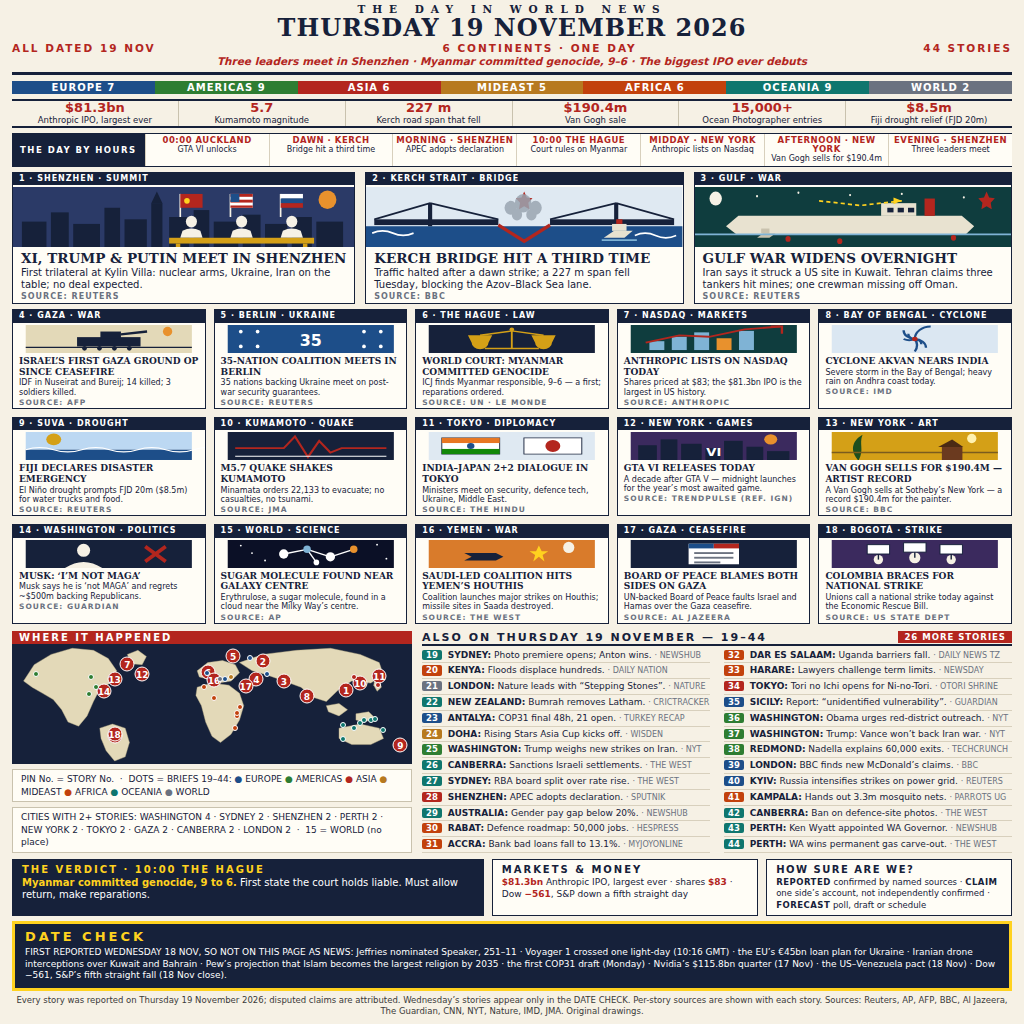
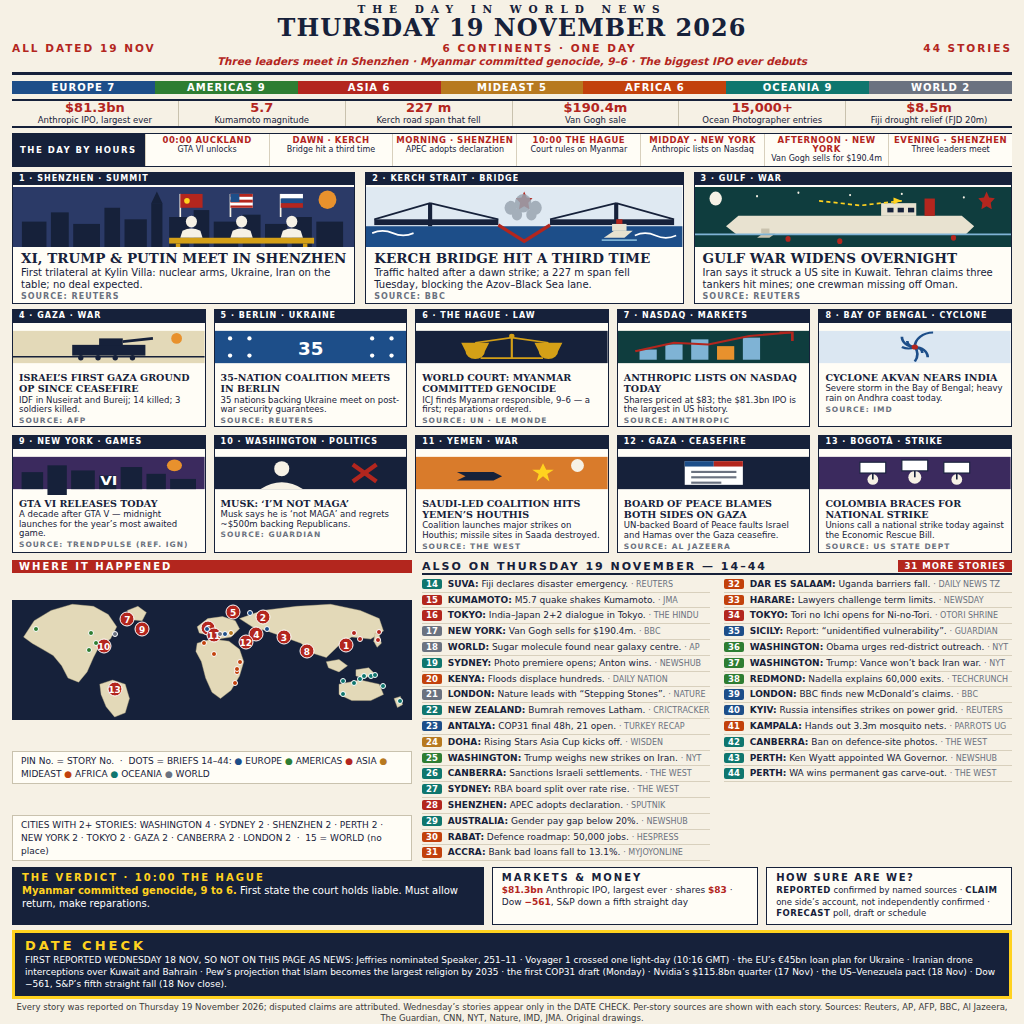
K2 v2 rev-2: feat grid 3x5 -> 2x5 (10 feats, 31 briefs); illustrations back to 48px, not squished

diff --git a/render.html b/render.html
@@ -23,9 +23,9 @@ h1.date { font-size:24px; line-height:1.05; letter-spacing:1px; font-weight:900;
 .strip { display:block; background:#16213a; color:#fff; font-size:8px; font-weight:bold; letter-spacing:1px; padding:1px 6px; line-height:1.3; white-space:nowrap; overflow:hidden; }
 .feat-grid { display:grid; grid-template-columns:repeat(5,1fr); gap:8px; margin-top:5px; }
 .feat { background:#fffdf6; border:1.2px solid #16213a; }
-.feat .illus { height:32px; overflow:hidden; display:flex; align-items:center; justify-content:center; }
-.feat h3 { font-size:9px; line-height:1.2; font-weight:900; margin:1px 6px 0; }
-.feat p { font-size:8px; line-height:1.15; margin:1px 6px 0; }
+.feat .illus { height:48px; overflow:hidden; display:flex; align-items:center; justify-content:center; }
+.feat h3 { font-size:9.5px; line-height:1.2; font-weight:900; margin:1px 6px 0; }
+.feat p { font-size:8.5px; line-height:1.15; margin:1px 6px 0; }
 .feat .src { font-size:7.5px; color:#6b7280; letter-spacing:1px; font-weight:bold; margin:1px 6px 1px; }
 .bottom { display:flex; gap:10px; margin-top:7px; }
 .mapcol { flex:0 0 40%; display:flex; flex-direction:column; justify-content:space-between; }
@@ -52,7 +52,7 @@ h1.date { font-size:24px; line-height:1.05; letter-spacing:1px; font-weight:900;
 .datecheck { margin-top:5px; border:3px solid #ffd21f; background:#16213a; color:#fff; padding:5px 10px 6px; }
 .datecheck .dc-head { display:flex; align-items:center; gap:7px; font-size:13px; font-weight:900; letter-spacing:3px; color:#ffd21f; margin-bottom:2px; line-height:1.2; }
 .datecheck .dc-items { font-size:9px; line-height:1.3; }
-.footer { font-size:8.5px; text-align:center; margin-top:4px; line-height:1.25; color:#3a3a3a; }
+.footer { font-size:8.5px; text-align:center; margin-top:3px; line-height:1.25; color:#3a3a3a; }
 .timeline { display:flex; margin-top:5px; border-top:1.5px solid #16213a; border-bottom:1.5px solid #16213a; background:#fffdf6; }
 .timeline .tl-label { flex:0 0 auto; background:#16213a; color:#fff; font-size:8.5px; font-weight:bold; letter-spacing:1.5px; padding:3px 8px; display:flex; align-items:center; }
 .timeline .tl-cell { flex:1; text-align:center; padding:2px 2px; border-left:1px solid #d8d0bd; }
@@ -130,105 +130,70 @@ h1.date { font-size:24px; line-height:1.05; letter-spacing:1px; font-weight:900;
 <div class="feat-grid">
   <div class="feat">
     <div class="strip">4 &middot; GAZA &middot; WAR</div>
-    <div class="illus"><svg width="100%" height="28" viewBox="0 0 178 30"><rect x="0" y="0" width="178" height="30" fill="#e3d9b8"/><circle cx="152" cy="7" r="5" fill="#e8912d"/><path d="M0 24 H178" stroke="#16213a" stroke-width="1.5"/><rect x="55" y="13" width="68" height="10" fill="#16213a"/><rect x="80" y="7" width="22" height="7" fill="#16213a"/><line x1="102" y1="10" x2="130" y2="7" stroke="#16213a" stroke-width="2.5"/><circle cx="63" cy="25" r="2.5" fill="#16213a"/><circle cx="79" cy="25" r="2.5" fill="#16213a"/><circle cx="95" cy="25" r="2.5" fill="#16213a"/><circle cx="111" cy="25" r="2.5" fill="#16213a"/></svg></div>
+    <div class="illus"><svg width="100%" height="44" viewBox="0 0 178 30"><rect x="0" y="0" width="178" height="30" fill="#e3d9b8"/><circle cx="152" cy="7" r="5" fill="#e8912d"/><path d="M0 24 H178" stroke="#16213a" stroke-width="1.5"/><rect x="55" y="13" width="68" height="10" fill="#16213a"/><rect x="80" y="7" width="22" height="7" fill="#16213a"/><line x1="102" y1="10" x2="130" y2="7" stroke="#16213a" stroke-width="2.5"/><circle cx="63" cy="25" r="2.5" fill="#16213a"/><circle cx="79" cy="25" r="2.5" fill="#16213a"/><circle cx="95" cy="25" r="2.5" fill="#16213a"/><circle cx="111" cy="25" r="2.5" fill="#16213a"/></svg></div>
     <h3>ISRAEL&rsquo;S FIRST GAZA GROUND OP SINCE CEASEFIRE</h3>
     <p>IDF in Nuseirat and Bureij; 14 killed; 3 soldiers killed.</p>
     <div class="src">SOURCE: AFP</div>
   </div>
   <div class="feat">
     <div class="strip">5 &middot; BERLIN &middot; UKRAINE</div>
-    <div class="illus"><svg width="100%" height="28" viewBox="0 0 178 30"><rect x="0" y="0" width="178" height="30" fill="#1d4e89"/><g fill="#fff"><circle cx="14" cy="7" r="2"/><circle cx="32" cy="7" r="2"/><circle cx="146" cy="7" r="2"/><circle cx="164" cy="7" r="2"/><circle cx="14" cy="23" r="2"/><circle cx="32" cy="23" r="2"/><circle cx="146" cy="23" r="2"/><circle cx="164" cy="23" r="2"/></g><text x="89" y="22" font-size="17" font-weight="bold" fill="#fff" text-anchor="middle">35</text></svg></div>
+    <div class="illus"><svg width="100%" height="44" viewBox="0 0 178 30"><rect x="0" y="0" width="178" height="30" fill="#1d4e89"/><g fill="#fff"><circle cx="14" cy="7" r="2"/><circle cx="32" cy="7" r="2"/><circle cx="146" cy="7" r="2"/><circle cx="164" cy="7" r="2"/><circle cx="14" cy="23" r="2"/><circle cx="32" cy="23" r="2"/><circle cx="146" cy="23" r="2"/><circle cx="164" cy="23" r="2"/></g><text x="89" y="22" font-size="17" font-weight="bold" fill="#fff" text-anchor="middle">35</text></svg></div>
     <h3>35-NATION COALITION MEETS IN BERLIN</h3>
     <p>35 nations backing Ukraine meet on post-war security guarantees.</p>
     <div class="src">SOURCE: REUTERS</div>
   </div>
   <div class="feat">
     <div class="strip">6 &middot; THE HAGUE &middot; LAW</div>
-    <div class="illus"><svg width="100%" height="28" viewBox="0 0 178 30"><g transform="scale(1,0.789)"><rect x="0" y="0" width="178" height="38" fill="#16213a"/><g stroke="#d4a017" stroke-width="2" fill="none"><path d="M89 4 V32 M60 32 H118 M89 8 L55 14 M89 8 L123 14"/></g><path d="M42 14 h26 l-4 10 a9 9 0 0 1 -18 0 z" fill="#d4a017"/><path d="M110 14 h26 l-4 10 a9 9 0 0 1 -18 0 z" fill="#d4a017"/><circle cx="89" cy="6" r="2.5" fill="#d4a017"/></g></svg></div>
+    <div class="illus"><svg width="100%" height="44" viewBox="0 0 178 30"><g transform="scale(1,0.789)"><rect x="0" y="0" width="178" height="38" fill="#16213a"/><g stroke="#d4a017" stroke-width="2" fill="none"><path d="M89 4 V32 M60 32 H118 M89 8 L55 14 M89 8 L123 14"/></g><path d="M42 14 h26 l-4 10 a9 9 0 0 1 -18 0 z" fill="#d4a017"/><path d="M110 14 h26 l-4 10 a9 9 0 0 1 -18 0 z" fill="#d4a017"/><circle cx="89" cy="6" r="2.5" fill="#d4a017"/></g></svg></div>
     <h3>WORLD COURT: MYANMAR COMMITTED GENOCIDE</h3>
     <p>ICJ finds Myanmar responsible, 9&ndash;6 &mdash; a first; reparations ordered.</p>
     <div class="src">SOURCE: UN &middot; LE MONDE</div>
   </div>
   <div class="feat">
     <div class="strip">7 &middot; NASDAQ &middot; MARKETS</div>
-    <div class="illus"><svg width="100%" height="28" viewBox="0 0 178 30"><g transform="scale(1,0.789)"><rect x="0" y="0" width="178" height="38" fill="#0f3d3e"/><rect x="20" y="22" width="16" height="12" fill="#7fb3d5"/><rect x="44" y="16" width="16" height="18" fill="#7fb3d5"/><rect x="68" y="10" width="16" height="24" fill="#7fb3d5"/><rect x="92" y="18" width="16" height="16" fill="#e8912d"/><rect x="116" y="8" width="16" height="26" fill="#7fb3d5"/><path d="M16 24 L52 14 L84 16 L122 6 L160 2" stroke="#b3261e" stroke-width="2.5" fill="none"/><path d="M150 2 h12 v10" stroke="#b3261e" stroke-width="2.5" fill="none"/></g></svg></div>
+    <div class="illus"><svg width="100%" height="44" viewBox="0 0 178 30"><g transform="scale(1,0.789)"><rect x="0" y="0" width="178" height="38" fill="#0f3d3e"/><rect x="20" y="22" width="16" height="12" fill="#7fb3d5"/><rect x="44" y="16" width="16" height="18" fill="#7fb3d5"/><rect x="68" y="10" width="16" height="24" fill="#7fb3d5"/><rect x="92" y="18" width="16" height="16" fill="#e8912d"/><rect x="116" y="8" width="16" height="26" fill="#7fb3d5"/><path d="M16 24 L52 14 L84 16 L122 6 L160 2" stroke="#b3261e" stroke-width="2.5" fill="none"/><path d="M150 2 h12 v10" stroke="#b3261e" stroke-width="2.5" fill="none"/></g></svg></div>
     <h3>ANTHROPIC LISTS ON NASDAQ TODAY</h3>
     <p>Shares priced at $83; the $81.3bn IPO is the largest in US history.</p>
     <div class="src">SOURCE: ANTHROPIC</div>
   </div>
   <div class="feat">
     <div class="strip">8 &middot; BAY OF BENGAL &middot; CYCLONE</div>
-    <div class="illus"><svg width="100%" height="28" viewBox="0 0 178 30"><g transform="scale(1,0.789)"><rect x="0" y="0" width="178" height="38" fill="#dbe7f2"/><path d="M89 19 a3 3 0 0 1 3 3 M89 19 a7 7 0 0 1 7 7 M89 19 a12 12 0 0 1 12 12 M89 19 a17 17 0 0 1 0 17 M89 19 a12 12 0 0 1 -12 0 M89 19 a7 7 0 0 1 -7 -7 M89 19 a17 17 0 0 1 17 -17 M89 19 a12 12 0 0 1 -12 -12" stroke="#1d4e89" stroke-width="2.5" fill="none"/><circle cx="89" cy="19" r="3" fill="#b3261e"/></g></svg></div>
+    <div class="illus"><svg width="100%" height="44" viewBox="0 0 178 30"><g transform="scale(1,0.789)"><rect x="0" y="0" width="178" height="38" fill="#dbe7f2"/><path d="M89 19 a3 3 0 0 1 3 3 M89 19 a7 7 0 0 1 7 7 M89 19 a12 12 0 0 1 12 12 M89 19 a17 17 0 0 1 0 17 M89 19 a12 12 0 0 1 -12 0 M89 19 a7 7 0 0 1 -7 -7 M89 19 a17 17 0 0 1 17 -17 M89 19 a12 12 0 0 1 -12 -12" stroke="#1d4e89" stroke-width="2.5" fill="none"/><circle cx="89" cy="19" r="3" fill="#b3261e"/></g></svg></div>
     <h3>CYCLONE AKVAN NEARS INDIA</h3>
     <p>Severe storm in the Bay of Bengal; heavy rain on Andhra coast today.</p>
     <div class="src">SOURCE: IMD</div>
   </div>
   <div class="feat">
-    <div class="strip">9 &middot; SUVA &middot; DROUGHT</div>
-    <div class="illus"><svg width="100%" height="28" viewBox="0 0 178 30"><g transform="scale(1,0.789)"><rect x="0" y="0" width="178" height="24" fill="#bcd8f2"/><rect x="0" y="24" width="178" height="14" fill="#1d4e89"/><circle cx="30" cy="10" r="8" fill="#d4a017"/><path d="M0 24 q15 -6 30 0 q15 6 30 0 q15 -6 30 0 q15 6 30 0 q15 -6 30 0 q15 6 30 0 q15 -6 30 0 q15 6 28 0" stroke="#fff" stroke-width="1.5" fill="none"/></g></svg></div>
-    <h3>FIJI DECLARES DISASTER EMERGENCY</h3>
-    <p>El Ni&ntilde;o drought prompts FJD 20m ($8.5m) for water trucks and food.</p>
-    <div class="src">SOURCE: REUTERS</div>
-  </div>
-  <div class="feat">
-    <div class="strip">10 &middot; KUMAMOTO &middot; QUAKE</div>
-    <div class="illus"><svg width="100%" height="28" viewBox="0 0 178 30"><g transform="scale(1,0.789)"><rect x="0" y="0" width="178" height="38" fill="#16213a"/><path d="M8 22 H60 L72 6 L86 34 L98 12 L110 28 L122 22 H170" stroke="#b3261e" stroke-width="2.5" fill="none"/><path d="M8 33 H170" stroke="#fff" stroke-width="1.5"/></g></svg></div>
-    <h3>M5.7 QUAKE SHAKES KUMAMOTO</h3>
-    <p>Minamata orders 22,133 to evacuate; no casualties, no tsunami.</p>
-    <div class="src">SOURCE: JMA</div>
-  </div>
-  <div class="feat">
-    <div class="strip">11 &middot; TOKYO &middot; DIPLOMACY</div>
-    <div class="illus"><svg width="100%" height="28" viewBox="0 0 178 30"><g transform="scale(1,0.789)"><rect x="0" y="0" width="178" height="38" fill="#dfe9f2"/><rect x="14" y="8" width="62" height="22" fill="#fff" stroke="#16213a" stroke-width="1"/><rect x="14" y="8" width="62" height="7" fill="#e87722"/><rect x="14" y="23" width="62" height="7" fill="#138808"/><circle cx="45" cy="19" r="4" fill="#1d4e89"/><rect x="102" y="8" width="62" height="22" fill="#fff" stroke="#16213a" stroke-width="1"/><circle cx="133" cy="19" r="8" fill="#b3261e"/></g></svg></div>
-    <h3>INDIA&ndash;JAPAN 2+2 DIALOGUE IN TOKYO</h3>
-    <p>Ministers meet on security, defence tech, Ukraine, Middle East.</p>
-    <div class="src">SOURCE: THE HINDU</div>
-  </div>
-  <div class="feat">
-    <div class="strip">12 &middot; NEW YORK &middot; GAMES</div>
-    <div class="illus"><svg width="100%" height="28" viewBox="0 0 178 30"><g transform="scale(1,0.789)"><rect x="0" y="0" width="178" height="38" fill="#3b2a5e"/><circle cx="150" cy="10" r="7" fill="#e8912d"/><g fill="#16213a"><rect x="8" y="18" width="20" height="20"/><rect x="32" y="10" width="18" height="28"/><rect x="54" y="16" width="22" height="22"/><rect x="80" y="22" width="16" height="16"/><rect x="100" y="12" width="20" height="26"/><rect x="124" y="20" width="18" height="18"/><rect x="146" y="26" width="24" height="12"/></g><text x="89" y="33" font-size="14" font-weight="bold" fill="#fff" text-anchor="middle">VI</text></g></svg></div>
+    <div class="strip">9 &middot; NEW YORK &middot; GAMES</div>
+    <div class="illus"><svg width="100%" height="44" viewBox="0 0 178 30"><g transform="scale(1,0.789)"><rect x="0" y="0" width="178" height="38" fill="#3b2a5e"/><circle cx="150" cy="10" r="7" fill="#e8912d"/><g fill="#16213a"><rect x="8" y="18" width="20" height="20"/><rect x="32" y="10" width="18" height="44"/><rect x="54" y="16" width="22" height="22"/><rect x="80" y="22" width="16" height="16"/><rect x="100" y="12" width="20" height="26"/><rect x="124" y="20" width="18" height="18"/><rect x="146" y="26" width="24" height="12"/></g><text x="89" y="33" font-size="14" font-weight="bold" fill="#fff" text-anchor="middle">VI</text></g></svg></div>
     <h3>GTA VI RELEASES TODAY</h3>
     <p>A decade after GTA V &mdash; midnight launches for the year&rsquo;s most awaited game.</p>
     <div class="src">SOURCE: TRENDPULSE (REF. IGN)</div>
   </div>
   <div class="feat">
-    <div class="strip">13 &middot; NEW YORK &middot; ART</div>
-    <div class="illus"><svg width="100%" height="28" viewBox="0 0 178 30"><rect x="0" y="0" width="178" height="30" fill="#d4a017"/><circle cx="150" cy="7" r="5" fill="#fff2b0"/><path d="M28 30 C18 18 24 8 33 3 C29 13 35 19 29 30 Z" fill="#1d4e1e"/><path d="M0 22 H178" stroke="#7a5c1e" stroke-width="1.5"/><rect x="118" y="16" width="22" height="14" fill="#6b3a1f"/><polygon points="114,16 141,16 129,8" fill="#4a2a14"/></svg></div>
-    <h3>VAN GOGH SELLS FOR $190.4M &mdash; ARTIST RECORD</h3>
-    <p>A Van Gogh sells at Sotheby&rsquo;s New York &mdash; a record $190.4m for the painter.</p>
-    <div class="src">SOURCE: BBC</div>
-  </div>
-  <div class="feat">
-    <div class="strip">14 &middot; WASHINGTON &middot; POLITICS</div>
-    <div class="illus"><svg width="100%" height="28" viewBox="0 0 178 30"><rect x="0" y="0" width="178" height="30" fill="#16213a"/><circle cx="62" cy="11" r="7" fill="#f6f1e5"/><path d="M42 30 Q62 17 82 30 Z" fill="#f6f1e5"/><g stroke="#b3261e" stroke-width="4"><line x1="128" y1="7" x2="150" y2="23"/><line x1="150" y1="7" x2="128" y2="23"/></g></svg></div>
+    <div class="strip">10 &middot; WASHINGTON &middot; POLITICS</div>
+    <div class="illus"><svg width="100%" height="44" viewBox="0 0 178 30"><rect x="0" y="0" width="178" height="30" fill="#16213a"/><circle cx="62" cy="11" r="7" fill="#f6f1e5"/><path d="M42 30 Q62 17 82 30 Z" fill="#f6f1e5"/><g stroke="#b3261e" stroke-width="4"><line x1="128" y1="7" x2="150" y2="23"/><line x1="150" y1="7" x2="128" y2="23"/></g></svg></div>
     <h3>MUSK: &lsquo;I&rsquo;M NOT MAGA&rsquo;</h3>
     <p>Musk says he is &lsquo;not MAGA&rsquo; and regrets ~$500m backing Republicans.</p>
     <div class="src">SOURCE: GUARDIAN</div>
   </div>
   <div class="feat">
-    <div class="strip">15 &middot; WORLD &middot; SCIENCE</div>
-    <div class="illus"><svg width="100%" height="28" viewBox="0 0 178 30"><rect x="0" y="0" width="178" height="30" fill="#0b1026"/><g fill="#fff"><circle cx="14" cy="6" r="1"/><circle cx="40" cy="22" r="1"/><circle cx="160" cy="5" r="1"/><circle cx="170" cy="20" r="1"/><circle cx="26" cy="14" r="1"/></g><g stroke="#fff" stroke-width="1.5"><line x1="60" y1="15" x2="85" y2="10"/><line x1="85" y1="10" x2="110" y2="18"/><line x1="110" y1="18" x2="135" y2="10"/><line x1="85" y1="10" x2="95" y2="24"/></g><circle cx="60" cy="15" r="5" fill="#fff"/><circle cx="85" cy="10" r="4" fill="#7fb3d5"/><circle cx="110" cy="18" r="5" fill="#fff"/><circle cx="135" cy="10" r="4" fill="#e8912d"/><circle cx="95" cy="24" r="3" fill="#fff"/></svg></div>
-    <h3>SUGAR MOLECULE FOUND NEAR GALAXY CENTRE</h3>
-    <p>Erythrulose, a sugar molecule, found in a cloud near the Milky Way&rsquo;s centre.</p>
-    <div class="src">SOURCE: AP</div>
-  </div>
-  <div class="feat">
-    <div class="strip">16 &middot; YEMEN &middot; WAR</div>
-    <div class="illus"><svg width="100%" height="28" viewBox="0 0 178 30"><rect x="0" y="0" width="178" height="30" fill="#d97b2b"/><circle cx="150" cy="8" r="6" fill="#f6f1e5"/><polygon points="38,14 72,14 80,18 72,22 38,22 46,18" fill="#16213a"/><polygon points="118,6 121,12 128,12 122,16 124,23 118,18 112,23 114,16 108,12 115,12" fill="#ffd21f"/></svg></div>
+    <div class="strip">11 &middot; YEMEN &middot; WAR</div>
+    <div class="illus"><svg width="100%" height="44" viewBox="0 0 178 30"><rect x="0" y="0" width="178" height="30" fill="#d97b2b"/><circle cx="150" cy="8" r="6" fill="#f6f1e5"/><polygon points="38,14 72,14 80,18 72,22 38,22 46,18" fill="#16213a"/><polygon points="118,6 121,12 128,12 122,16 124,23 118,18 112,23 114,16 108,12 115,12" fill="#ffd21f"/></svg></div>
     <h3>SAUDI-LED COALITION HITS YEMEN&rsquo;S HOUTHIS</h3>
     <p>Coalition launches major strikes on Houthis; missile sites in Saada destroyed.</p>
     <div class="src">SOURCE: THE WEST</div>
   </div>
   <div class="feat">
-    <div class="strip">17 &middot; GAZA &middot; CEASEFIRE</div>
-    <div class="illus"><svg width="100%" height="28" viewBox="0 0 178 30"><rect x="0" y="0" width="178" height="30" fill="#16213a"/><rect x="62" y="4" width="54" height="22" fill="#fff"/><rect x="62" y="4" width="27" height="5" fill="#1d4e89"/><rect x="89" y="4" width="27" height="5" fill="#b3261e"/><rect x="68" y="13" width="42" height="2" fill="#6b7280"/><rect x="68" y="18" width="42" height="2" fill="#6b7280"/><rect x="68" y="23" width="28" height="2" fill="#6b7280"/></svg></div>
+    <div class="strip">12 &middot; GAZA &middot; CEASEFIRE</div>
+    <div class="illus"><svg width="100%" height="44" viewBox="0 0 178 30"><rect x="0" y="0" width="178" height="30" fill="#16213a"/><rect x="62" y="4" width="54" height="22" fill="#fff"/><rect x="62" y="4" width="27" height="5" fill="#1d4e89"/><rect x="89" y="4" width="27" height="5" fill="#b3261e"/><rect x="68" y="13" width="42" height="2" fill="#6b7280"/><rect x="68" y="18" width="42" height="2" fill="#6b7280"/><rect x="68" y="23" width="28" height="2" fill="#6b7280"/></svg></div>
     <h3>BOARD OF PEACE BLAMES BOTH SIDES ON GAZA</h3>
     <p>UN-backed Board of Peace faults Israel and Hamas over the Gaza ceasefire.</p>
     <div class="src">SOURCE: AL JAZEERA</div>
   </div>
   <div class="feat">
-    <div class="strip">18 &middot; BOGOT&Aacute; &middot; STRIKE</div>
-    <div class="illus"><svg width="100%" height="28" viewBox="0 0 178 30"><rect x="0" y="0" width="178" height="30" fill="#3b2a5e"/><g fill="#f6f1e5"><circle cx="50" cy="21" r="5"/><circle cx="89" cy="19" r="6"/><circle cx="128" cy="21" r="5"/></g><g fill="#fff" stroke="#16213a" stroke-width="1"><rect x="38" y="5" width="24" height="10"/><rect x="77" y="3" width="24" height="10"/><rect x="116" y="5" width="24" height="10"/></g><g stroke="#16213a" stroke-width="1.5"><line x1="50" y1="15" x2="50" y2="21"/><line x1="89" y1="13" x2="89" y2="19"/><line x1="128" y1="15" x2="128" y2="21"/></g></svg></div>
+    <div class="strip">13 &middot; BOGOT&Aacute; &middot; STRIKE</div>
+    <div class="illus"><svg width="100%" height="44" viewBox="0 0 178 30"><rect x="0" y="0" width="178" height="30" fill="#3b2a5e"/><g fill="#f6f1e5"><circle cx="50" cy="21" r="5"/><circle cx="89" cy="19" r="6"/><circle cx="128" cy="21" r="5"/></g><g fill="#fff" stroke="#16213a" stroke-width="1"><rect x="38" y="5" width="24" height="10"/><rect x="77" y="3" width="24" height="10"/><rect x="116" y="5" width="24" height="10"/></g><g stroke="#16213a" stroke-width="1.5"><line x1="50" y1="15" x2="50" y2="21"/><line x1="89" y1="13" x2="89" y2="19"/><line x1="128" y1="15" x2="128" y2="21"/></g></svg></div>
     <h3>COLOMBIA BRACES FOR NATIONAL STRIKE</h3>
     <p>Unions call a national strike today against the Economic Rescue Bill.</p>
     <div class="src">SOURCE: US STATE DEPT</div>
@@ -261,16 +226,16 @@ h1.date { font-size:24px; line-height:1.05; letter-spacing:1px; font-weight:900;
       <div class="pin" style="left:48.94%;top:22.92%">6</div>
       <div class="pin" style="left:28.72%;top:15.62%">7</div>
       <div class="pin" style="left:73.83%;top:42.71%">8</div>
-      <div class="pin" style="left:97.34%;top:84.38%">9</div>
-      <div class="pin" style="left:87.23%;top:32.29%">10</div>
-      <div class="pin" style="left:92.02%;top:26.04%">11</div>
-      <div class="pin" style="left:32.45%;top:23.96%">12</div>
-      <div class="pin" style="left:25.53%;top:28.12%">13</div>
-      <div class="pin" style="left:22.87%;top:38.54%">14</div>
-      <div class="pin" style="left:25.53%;top:77.08%">15</div>
-      <div class="pin" style="left:50.53%;top:29.17%">16</div>
-      <div class="pin" style="left:58.51%;top:34.38%">17</div>
-      <div class="pin" style="left:25.53%;top:75.00%">18</div>
+      <div class="dot" style="left:97.34%;top:84.38%;background:#0f766e"></div>
+      <div class="dot" style="left:87.23%;top:32.29%;background:#b3261e"></div>
+      <div class="dot" style="left:92.02%;top:26.04%;background:#b3261e"></div>
+      <div class="pin" style="left:32.45%;top:23.96%">9</div>
+      <div class="dot" style="left:25.53%;top:28.12%;background:#6b7280"></div>
+      <div class="pin" style="left:22.87%;top:38.54%">10</div>
+      <div class="dot" style="left:25.53%;top:77.08%;background:#6b7280"></div>
+      <div class="pin" style="left:50.53%;top:29.17%">11</div>
+      <div class="pin" style="left:58.51%;top:34.38%">12</div>
+      <div class="pin" style="left:25.53%;top:75.00%">13</div>
       <div class="dot" style="left:89.89%;top:63.54%;background:#0f766e"></div>
       <div class="dot" style="left:56.91%;top:52.08%;background:#c2410c"></div>
       <div class="dot" style="left:52.13%;top:28.12%;background:#6b7280"></div>
@@ -298,13 +263,18 @@ h1.date { font-size:24px; line-height:1.05; letter-spacing:1px; font-weight:900;
       <div class="dot" style="left:82.98%;top:67.71%;background:#0f766e"></div>
       <div class="dot" style="left:82.98%;top:79.17%;background:#0f766e"></div>
     </div>
-    <div class="map-legend">PIN No. = STORY No. &nbsp;&middot;&nbsp; DOTS = BRIEFS 19&ndash;44: <span style="color:#1d4e89">&#9679;</span> EUROPE <span style="color:#2e7d32">&#9679;</span> AMERICAS <span style="color:#b3261e">&#9679;</span> ASIA <span style="color:#b7791f">&#9679;</span> MIDEAST <span style="color:#c2410c">&#9679;</span> AFRICA <span style="color:#0f766e">&#9679;</span> OCEANIA <span style="color:#6b7280">&#9679;</span> WORLD</div>
+    <div class="map-legend">PIN No. = STORY No. &nbsp;&middot;&nbsp; DOTS = BRIEFS 14&ndash;44: <span style="color:#1d4e89">&#9679;</span> EUROPE <span style="color:#2e7d32">&#9679;</span> AMERICAS <span style="color:#b3261e">&#9679;</span> ASIA <span style="color:#b7791f">&#9679;</span> MIDEAST <span style="color:#c2410c">&#9679;</span> AFRICA <span style="color:#0f766e">&#9679;</span> OCEANIA <span style="color:#6b7280">&#9679;</span> WORLD</div>
     <div class="cities">CITIES WITH 2+ STORIES: WASHINGTON 4 &middot; SYDNEY 2 &middot; SHENZHEN 2 &middot; PERTH 2 &middot; NEW YORK 2 &middot; TOKYO 2 &middot; GAZA 2 &middot; CANBERRA 2 &middot; LONDON 2 &nbsp;&middot;&nbsp; 15 = WORLD (no place)</div>
   </div>
   <div class="briefcol">
-    <div class="briefs-head">ALSO ON THURSDAY 19 NOVEMBER &mdash; 19&ndash;44<span class="tag">26 MORE STORIES</span></div>
+    <div class="briefs-head">ALSO ON THURSDAY 19 NOVEMBER &mdash; 14&ndash;44<span class="tag">31 MORE STORIES</span></div>
     <div class="briefs">
       <div>
+        <div class="brief"><span class="chip" style="background:#0f766e">14</span> <b>SUVA:</b> Fiji declares disaster emergency. <span class="src">&middot; REUTERS</span></div>
+        <div class="brief"><span class="chip" style="background:#b3261e">15</span> <b>KUMAMOTO:</b> M5.7 quake shakes Kumamoto. <span class="src">&middot; JMA</span></div>
+        <div class="brief"><span class="chip" style="background:#b3261e">16</span> <b>TOKYO:</b> India&ndash;Japan 2+2 dialogue in Tokyo. <span class="src">&middot; THE HINDU</span></div>
+        <div class="brief"><span class="chip" style="background:#6b7280">17</span> <b>NEW YORK:</b> Van Gogh sells for $190.4m. <span class="src">&middot; BBC</span></div>
+        <div class="brief"><span class="chip" style="background:#6b7280">18</span> <b>WORLD:</b> Sugar molecule found near galaxy centre. <span class="src">&middot; AP</span></div>
         <div class="brief"><span class="chip" style="background:#0f766e">19</span> <b>SYDNEY:</b> Photo premiere opens; Anton wins. <span class="src">&middot; NEWSHUB</span></div>
         <div class="brief"><span class="chip" style="background:#c2410c">20</span> <b>KENYA:</b> Floods displace hundreds. <span class="src">&middot; DAILY NATION</span></div>
         <div class="brief"><span class="chip" style="background:#6b7280">21</span> <b>LONDON:</b> Nature leads with &ldquo;Stepping Stones&rdquo;. <span class="src">&middot; NATURE</span></div>
